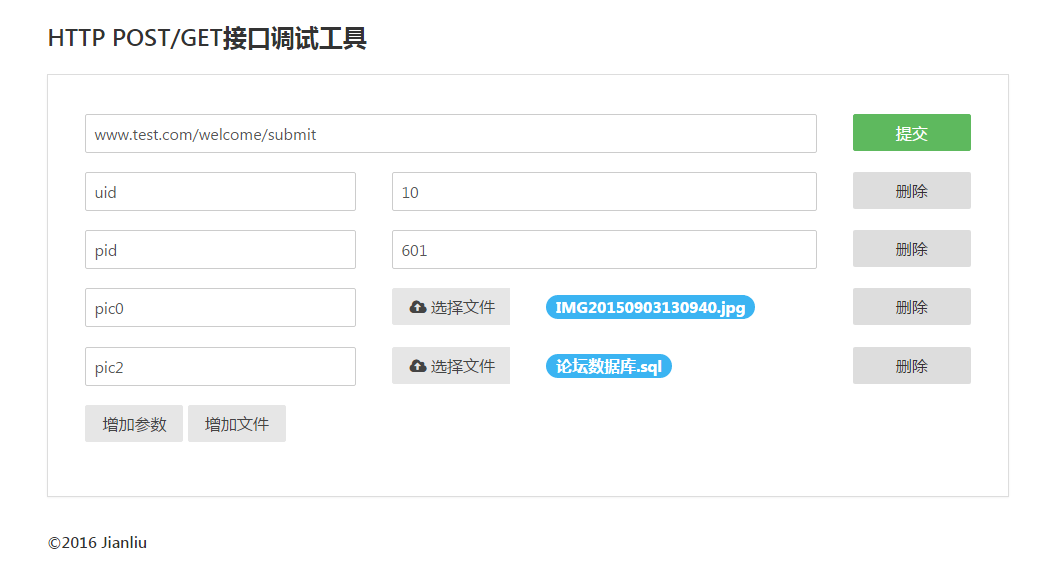
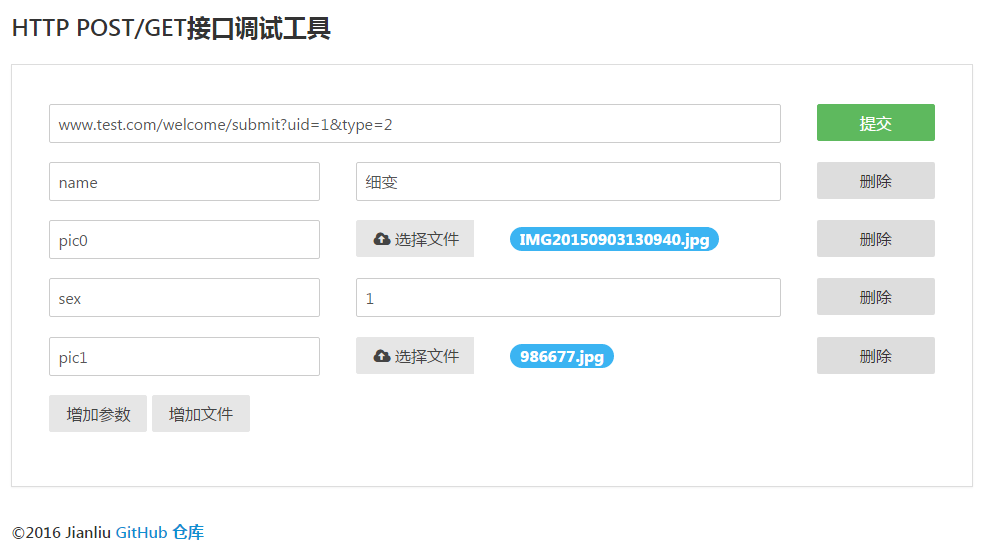
修改 README.md

diff --git a/httptest.html b/httptest.html
@@ -79,7 +79,7 @@
 	  </div>
 	</div>
 
-	<h5>©2016 Jianliu</h5>
+	<h5>©2016 Jianliu <a href="https://github.com/onanying/httptest" target="_blank">GitHub 仓库</a></h5>
 </div>
 
 <script type="text/javascript">

diff --git a/README.md b/README.md
@@ -1,6 +1,8 @@
 # httptest
 http post/get接口测试工具，可在线调试接口，支持多文件上传，多图片上传
 
+	
+
 ## 该工具特点
 
 * 只有一个文件，css与js都使用框架提供的CDN地址。
